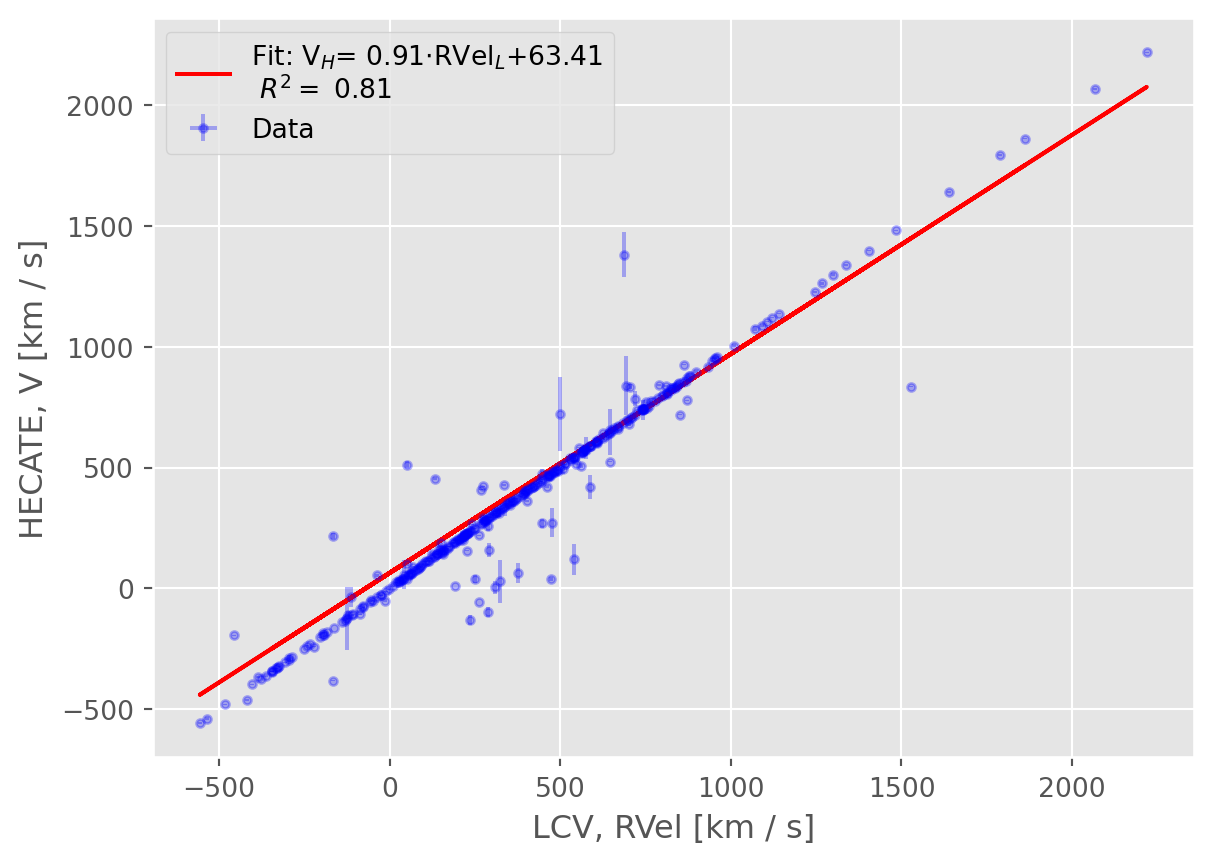
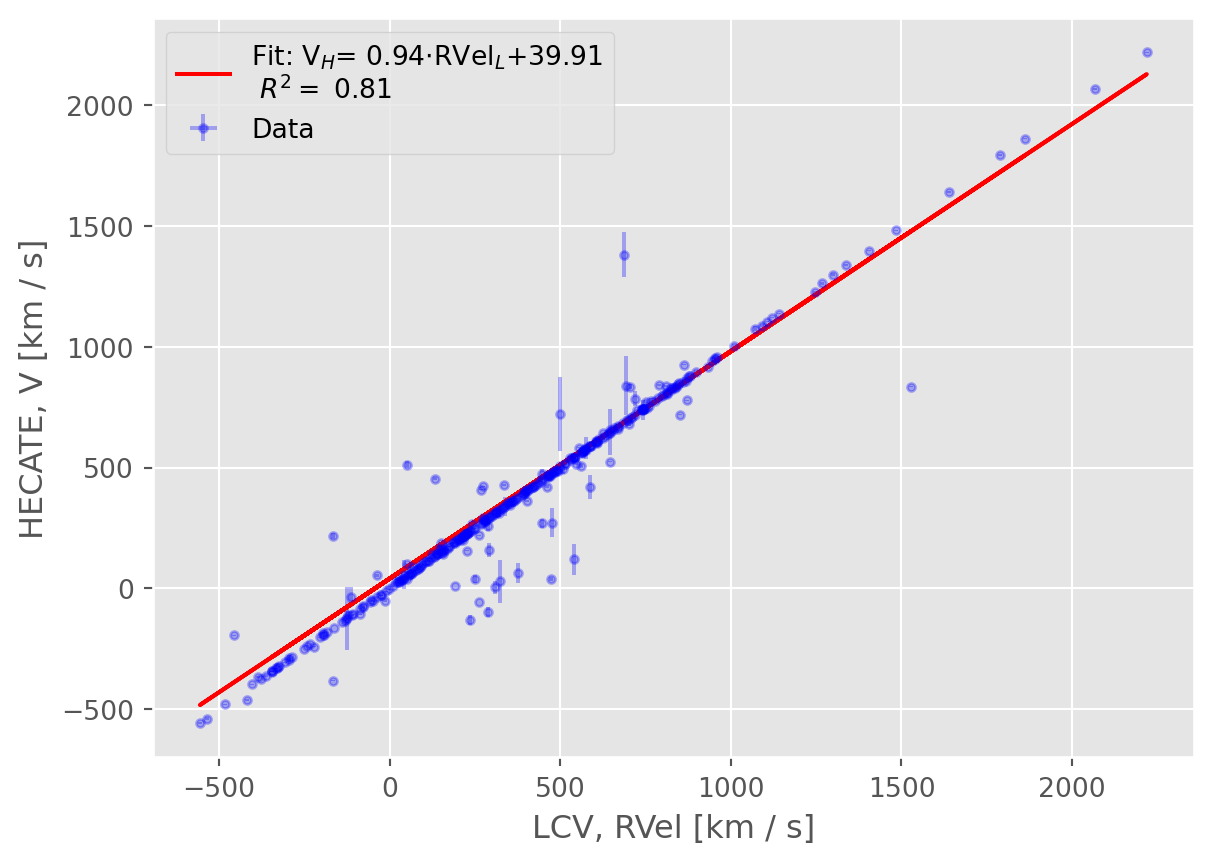
added weights

diff --git a/compare/compare.html b/compare/compare.html
@@ -175,12 +175,11 @@ window.Quarto = {
 <h2 class="anchored" data-anchor-id="scatter-plots-and-r2-calculation">Scatter plots and <span class="math inline">\(R^2\)</span> calculation</h2>
 <ol type="1">
 <li><u><span class="math inline">\(R^2\)</span></u>: Measures the proportion of variance explained by the linear model.</li>
-<li><u>Slope of the Fitted Line</u>: Should be close to 1 for a 1-1 correlation.</li>
-<li><u>Pearson Correlation <span class="math inline">\(\rho\)</span></u>: Measures the strength and direction of the linear relationship between two variables, ranging from -1 to 1.</li>
+<li><u>Slope of the Fitted Line</u>: Should be close to 1 for a 1-1 correlation.<a href="#fn1" class="footnote-ref" id="fnref1" role="doc-noteref"><sup>1</sup></a></li>
+<li><u>Pearson Correlation <span class="math inline">\(\rho\)</span></u>: Measures the strength and direction of the linear relationship between two variables, ranging from -1 to 1. <a href="#fn2" class="footnote-ref" id="fnref2" role="doc-noteref"><sup>2</sup></a></li>
 </ol>
-<p>In simple linear regression, <span class="math inline">\(R^2\)</span> is the square of the Pearson correlation coefficient <span class="math inline">\(r\)</span>.</p>
-<div id="5e415876" class="cell" data-execution_count="2">
-<div class="sourceCode cell-code" id="cb1"><pre class="sourceCode python code-with-copy"><code class="sourceCode python"><span id="cb1-1"><a href="#cb1-1" aria-hidden="true" tabindex="-1"></a><span class="kw">def</span> compare_data(x, y):</span>
+<div id="30e598ba" class="cell" data-execution_count="2">
+<div class="sourceCode cell-code" id="cb1"><pre class="sourceCode python code-with-copy"><code class="sourceCode python"><span id="cb1-1"><a href="#cb1-1" aria-hidden="true" tabindex="-1"></a><span class="kw">def</span> compare_data(x, y, unc <span class="op">=</span> <span class="va">None</span>):</span>
 <span id="cb1-2"><a href="#cb1-2" aria-hidden="true" tabindex="-1"></a>    <span class="co">"""</span></span>
 <span id="cb1-3"><a href="#cb1-3" aria-hidden="true" tabindex="-1"></a><span class="co">    Performs a linear comparison between two datasets.</span></span>
 <span id="cb1-4"><a href="#cb1-4" aria-hidden="true" tabindex="-1"></a><span class="co">    </span></span>
@@ -190,49 +189,55 @@ window.Quarto = {
 <span id="cb1-8"><a href="#cb1-8" aria-hidden="true" tabindex="-1"></a><span class="co">    Parameters:</span></span>
 <span id="cb1-9"><a href="#cb1-9" aria-hidden="true" tabindex="-1"></a><span class="co">    - x (array-like): The independent variable data.</span></span>
 <span id="cb1-10"><a href="#cb1-10" aria-hidden="true" tabindex="-1"></a><span class="co">    - y (array-like): The dependent variable data.</span></span>
-<span id="cb1-11"><a href="#cb1-11" aria-hidden="true" tabindex="-1"></a><span class="co">    </span></span>
-<span id="cb1-12"><a href="#cb1-12" aria-hidden="true" tabindex="-1"></a><span class="co">    Returns:</span></span>
-<span id="cb1-13"><a href="#cb1-13" aria-hidden="true" tabindex="-1"></a><span class="co">    tuple: A tuple containing the following elements:</span></span>
-<span id="cb1-14"><a href="#cb1-14" aria-hidden="true" tabindex="-1"></a><span class="co">        - slope (float): The slope of the fitted linear model.</span></span>
-<span id="cb1-15"><a href="#cb1-15" aria-hidden="true" tabindex="-1"></a><span class="co">        - intercept (float): The intercept of the fitted linear model.</span></span>
-<span id="cb1-16"><a href="#cb1-16" aria-hidden="true" tabindex="-1"></a><span class="co">        - r2 (float): The R-squared value, indicating the proportion of variance explained by the linear model.</span></span>
-<span id="cb1-17"><a href="#cb1-17" aria-hidden="true" tabindex="-1"></a><span class="co">        - corr (float): The Pearson correlation coefficient, measuring the linear correlation between x and y.</span></span>
-<span id="cb1-18"><a href="#cb1-18" aria-hidden="true" tabindex="-1"></a><span class="co">    """</span></span>
-<span id="cb1-19"><a href="#cb1-19" aria-hidden="true" tabindex="-1"></a>    x_data <span class="op">=</span> np.ma.array(x.value, mask<span class="op">=</span>np.isnan(x.value))</span>
-<span id="cb1-20"><a href="#cb1-20" aria-hidden="true" tabindex="-1"></a>    y_data <span class="op">=</span>  np.ma.array(y.value, mask<span class="op">=</span>np.isnan(y.value))</span>
-<span id="cb1-21"><a href="#cb1-21" aria-hidden="true" tabindex="-1"></a>    <span class="co"># initialize a linear fitter</span></span>
-<span id="cb1-22"><a href="#cb1-22" aria-hidden="true" tabindex="-1"></a>    fit <span class="op">=</span> fitting.LinearLSQFitter()</span>
-<span id="cb1-23"><a href="#cb1-23" aria-hidden="true" tabindex="-1"></a></span>
-<span id="cb1-24"><a href="#cb1-24" aria-hidden="true" tabindex="-1"></a>    <span class="co"># initialize a linear model</span></span>
-<span id="cb1-25"><a href="#cb1-25" aria-hidden="true" tabindex="-1"></a>    line_init <span class="op">=</span> models.Linear1D()</span>
-<span id="cb1-26"><a href="#cb1-26" aria-hidden="true" tabindex="-1"></a></span>
-<span id="cb1-27"><a href="#cb1-27" aria-hidden="true" tabindex="-1"></a>    <span class="co"># fit the data with the fitter</span></span>
-<span id="cb1-28"><a href="#cb1-28" aria-hidden="true" tabindex="-1"></a>    fitted_line <span class="op">=</span> fit(line_init, x_data, y_data)</span>
-<span id="cb1-29"><a href="#cb1-29" aria-hidden="true" tabindex="-1"></a>    slope <span class="op">=</span> fitted_line.slope.value</span>
-<span id="cb1-30"><a href="#cb1-30" aria-hidden="true" tabindex="-1"></a>    intercept <span class="op">=</span> fitted_line.intercept.value</span>
-<span id="cb1-31"><a href="#cb1-31" aria-hidden="true" tabindex="-1"></a></span>
-<span id="cb1-32"><a href="#cb1-32" aria-hidden="true" tabindex="-1"></a>    <span class="co"># Predict values using the fitted model</span></span>
-<span id="cb1-33"><a href="#cb1-33" aria-hidden="true" tabindex="-1"></a>    y_pred <span class="op">=</span> fitted_line(x_data)</span>
-<span id="cb1-34"><a href="#cb1-34" aria-hidden="true" tabindex="-1"></a></span>
-<span id="cb1-35"><a href="#cb1-35" aria-hidden="true" tabindex="-1"></a>    <span class="co"># Remove NaN values</span></span>
-<span id="cb1-36"><a href="#cb1-36" aria-hidden="true" tabindex="-1"></a>    mask <span class="op">=</span> <span class="op">~</span>np.isnan(y_data) <span class="op">&amp;</span> <span class="op">~</span>np.isnan(y_pred)</span>
-<span id="cb1-37"><a href="#cb1-37" aria-hidden="true" tabindex="-1"></a>    y_data_clean <span class="op">=</span> y_data[mask]</span>
-<span id="cb1-38"><a href="#cb1-38" aria-hidden="true" tabindex="-1"></a>    y_pred_clean <span class="op">=</span> y_pred[mask]</span>
-<span id="cb1-39"><a href="#cb1-39" aria-hidden="true" tabindex="-1"></a>    mask <span class="op">=</span> <span class="op">~</span>np.isnan(x_data) </span>
-<span id="cb1-40"><a href="#cb1-40" aria-hidden="true" tabindex="-1"></a>    x_data_clean <span class="op">=</span> x_data[mask]</span>
-<span id="cb1-41"><a href="#cb1-41" aria-hidden="true" tabindex="-1"></a></span>
-<span id="cb1-42"><a href="#cb1-42" aria-hidden="true" tabindex="-1"></a>    <span class="co"># Calculate R-squared</span></span>
-<span id="cb1-43"><a href="#cb1-43" aria-hidden="true" tabindex="-1"></a>    r2 <span class="op">=</span> r2_score(y_data_clean, y_pred_clean)</span>
-<span id="cb1-44"><a href="#cb1-44" aria-hidden="true" tabindex="-1"></a></span>
-<span id="cb1-45"><a href="#cb1-45" aria-hidden="true" tabindex="-1"></a>    <span class="co"># Calculate Pearson correlation coefficient</span></span>
-<span id="cb1-46"><a href="#cb1-46" aria-hidden="true" tabindex="-1"></a>    corr <span class="op">=</span> np.sqrt(np.<span class="bu">abs</span>(r2))</span>
+<span id="cb1-11"><a href="#cb1-11" aria-hidden="true" tabindex="-1"></a><span class="co">    - unc (array-like with units, optional): The uncertainties associated with the independent variable data. Default is None.</span></span>
+<span id="cb1-12"><a href="#cb1-12" aria-hidden="true" tabindex="-1"></a></span>
+<span id="cb1-13"><a href="#cb1-13" aria-hidden="true" tabindex="-1"></a><span class="co">    Returns:</span></span>
+<span id="cb1-14"><a href="#cb1-14" aria-hidden="true" tabindex="-1"></a><span class="co">    tuple: A tuple containing the following elements:</span></span>
+<span id="cb1-15"><a href="#cb1-15" aria-hidden="true" tabindex="-1"></a><span class="co">        - slope (float): The slope of the fitted linear model.</span></span>
+<span id="cb1-16"><a href="#cb1-16" aria-hidden="true" tabindex="-1"></a><span class="co">        - intercept (float): The intercept of the fitted linear model.</span></span>
+<span id="cb1-17"><a href="#cb1-17" aria-hidden="true" tabindex="-1"></a><span class="co">        - r2 (float): The R-squared value, indicating the proportion of variance explained by the linear model.</span></span>
+<span id="cb1-18"><a href="#cb1-18" aria-hidden="true" tabindex="-1"></a><span class="co">        - corr (float): The Pearson correlation coefficient, measuring the linear correlation between x and y.</span></span>
+<span id="cb1-19"><a href="#cb1-19" aria-hidden="true" tabindex="-1"></a><span class="co">    """</span></span>
+<span id="cb1-20"><a href="#cb1-20" aria-hidden="true" tabindex="-1"></a>    x_data <span class="op">=</span> np.ma.array(x.value, mask<span class="op">=</span>np.isnan(x.value))</span>
+<span id="cb1-21"><a href="#cb1-21" aria-hidden="true" tabindex="-1"></a>    y_data <span class="op">=</span>  np.ma.array(y.value, mask<span class="op">=</span>np.isnan(y.value))</span>
+<span id="cb1-22"><a href="#cb1-22" aria-hidden="true" tabindex="-1"></a>    <span class="cf">if</span> unc <span class="kw">is</span> <span class="va">None</span>:</span>
+<span id="cb1-23"><a href="#cb1-23" aria-hidden="true" tabindex="-1"></a>        w <span class="op">=</span> <span class="va">None</span></span>
+<span id="cb1-24"><a href="#cb1-24" aria-hidden="true" tabindex="-1"></a>    <span class="cf">else</span>:</span>
+<span id="cb1-25"><a href="#cb1-25" aria-hidden="true" tabindex="-1"></a>        unc <span class="op">=</span> np.ma.array(unc.value, mask<span class="op">=</span>np.isnan(x.value))</span>
+<span id="cb1-26"><a href="#cb1-26" aria-hidden="true" tabindex="-1"></a>        w <span class="op">=</span> <span class="dv">1</span><span class="op">/</span>unc </span>
+<span id="cb1-27"><a href="#cb1-27" aria-hidden="true" tabindex="-1"></a>    <span class="co"># initialize a linear fitter</span></span>
+<span id="cb1-28"><a href="#cb1-28" aria-hidden="true" tabindex="-1"></a>    fit <span class="op">=</span> fitting.LinearLSQFitter()</span>
+<span id="cb1-29"><a href="#cb1-29" aria-hidden="true" tabindex="-1"></a></span>
+<span id="cb1-30"><a href="#cb1-30" aria-hidden="true" tabindex="-1"></a>    <span class="co"># initialize a linear model</span></span>
+<span id="cb1-31"><a href="#cb1-31" aria-hidden="true" tabindex="-1"></a>    line_init <span class="op">=</span> models.Linear1D()</span>
+<span id="cb1-32"><a href="#cb1-32" aria-hidden="true" tabindex="-1"></a></span>
+<span id="cb1-33"><a href="#cb1-33" aria-hidden="true" tabindex="-1"></a>    <span class="co"># fit the data with the fitter</span></span>
+<span id="cb1-34"><a href="#cb1-34" aria-hidden="true" tabindex="-1"></a>    fitted_line <span class="op">=</span> fit(line_init, x_data, y_data, weights <span class="op">=</span> w)</span>
+<span id="cb1-35"><a href="#cb1-35" aria-hidden="true" tabindex="-1"></a>    slope <span class="op">=</span> fitted_line.slope.value</span>
+<span id="cb1-36"><a href="#cb1-36" aria-hidden="true" tabindex="-1"></a>    intercept <span class="op">=</span> fitted_line.intercept.value</span>
+<span id="cb1-37"><a href="#cb1-37" aria-hidden="true" tabindex="-1"></a></span>
+<span id="cb1-38"><a href="#cb1-38" aria-hidden="true" tabindex="-1"></a>    <span class="co"># Predict values using the fitted model</span></span>
+<span id="cb1-39"><a href="#cb1-39" aria-hidden="true" tabindex="-1"></a>    y_pred <span class="op">=</span> fitted_line(x_data)</span>
+<span id="cb1-40"><a href="#cb1-40" aria-hidden="true" tabindex="-1"></a></span>
+<span id="cb1-41"><a href="#cb1-41" aria-hidden="true" tabindex="-1"></a>    <span class="co"># Remove NaN values</span></span>
+<span id="cb1-42"><a href="#cb1-42" aria-hidden="true" tabindex="-1"></a>    mask <span class="op">=</span> <span class="op">~</span>np.isnan(y_data) <span class="op">&amp;</span> <span class="op">~</span>np.isnan(y_pred)</span>
+<span id="cb1-43"><a href="#cb1-43" aria-hidden="true" tabindex="-1"></a>    y_data_clean <span class="op">=</span> y_data[mask]</span>
+<span id="cb1-44"><a href="#cb1-44" aria-hidden="true" tabindex="-1"></a>    y_pred_clean <span class="op">=</span> y_pred[mask]</span>
+<span id="cb1-45"><a href="#cb1-45" aria-hidden="true" tabindex="-1"></a>    mask <span class="op">=</span> <span class="op">~</span>np.isnan(x_data) </span>
+<span id="cb1-46"><a href="#cb1-46" aria-hidden="true" tabindex="-1"></a>    x_data_clean <span class="op">=</span> x_data[mask]</span>
 <span id="cb1-47"><a href="#cb1-47" aria-hidden="true" tabindex="-1"></a></span>
-<span id="cb1-48"><a href="#cb1-48" aria-hidden="true" tabindex="-1"></a>    <span class="cf">return</span> slope, intercept, r2, corr</span></code><button title="Copy to Clipboard" class="code-copy-button"><i class="bi"></i></button></pre></div>
+<span id="cb1-48"><a href="#cb1-48" aria-hidden="true" tabindex="-1"></a>    <span class="co"># Calculate R-squared</span></span>
+<span id="cb1-49"><a href="#cb1-49" aria-hidden="true" tabindex="-1"></a>    r2 <span class="op">=</span> r2_score(y_data_clean, y_pred_clean)</span>
+<span id="cb1-50"><a href="#cb1-50" aria-hidden="true" tabindex="-1"></a></span>
+<span id="cb1-51"><a href="#cb1-51" aria-hidden="true" tabindex="-1"></a>    <span class="co"># Calculate Pearson correlation coefficient</span></span>
+<span id="cb1-52"><a href="#cb1-52" aria-hidden="true" tabindex="-1"></a>    corr <span class="op">=</span> np.sqrt(np.<span class="bu">abs</span>(r2))</span>
+<span id="cb1-53"><a href="#cb1-53" aria-hidden="true" tabindex="-1"></a></span>
+<span id="cb1-54"><a href="#cb1-54" aria-hidden="true" tabindex="-1"></a>    <span class="cf">return</span> slope, intercept, r2, corr</span></code><button title="Copy to Clipboard" class="code-copy-button"><i class="bi"></i></button></pre></div>
 </div>
 <ol start="4" type="1">
 <li><u>Scatter plots</u>: Scatter plots are essential for visually assessing the relationship between two datasets, identifying correlations, trends, and outliers, and evaluating the fit of linear models.</li>
 </ol>
-<div id="c62cb0f5" class="cell" data-execution_count="3">
+<div id="c8e12003" class="cell" data-execution_count="3">
 <div class="sourceCode cell-code" id="cb2"><pre class="sourceCode python code-with-copy"><code class="sourceCode python"><span id="cb2-1"><a href="#cb2-1" aria-hidden="true" tabindex="-1"></a><span class="kw">def</span> scatter_plot(x, y, xerr <span class="op">=</span> <span class="va">None</span>, yerr <span class="op">=</span> <span class="va">None</span>):</span>
 <span id="cb2-2"><a href="#cb2-2" aria-hidden="true" tabindex="-1"></a>    <span class="co">"""</span></span>
 <span id="cb2-3"><a href="#cb2-3" aria-hidden="true" tabindex="-1"></a><span class="co">    Generates a scatter plot of two datasets with optional error bars, fits a linear model to the data, </span></span>
@@ -241,8 +246,8 @@ window.Quarto = {
 <span id="cb2-6"><a href="#cb2-6" aria-hidden="true" tabindex="-1"></a><span class="co">    Parameters:</span></span>
 <span id="cb2-7"><a href="#cb2-7" aria-hidden="true" tabindex="-1"></a><span class="co">    - x (array-like with units): Independent variable data.</span></span>
 <span id="cb2-8"><a href="#cb2-8" aria-hidden="true" tabindex="-1"></a><span class="co">    - y (array-like with units): Dependent variable data.</span></span>
-<span id="cb2-9"><a href="#cb2-9" aria-hidden="true" tabindex="-1"></a><span class="co">    xerr (array-like, optional): Error in the independent variable data. Default is 0.</span></span>
-<span id="cb2-10"><a href="#cb2-10" aria-hidden="true" tabindex="-1"></a><span class="co">    yerr (array-like, optional): Error in the dependent variable data. Default is 0.</span></span>
+<span id="cb2-9"><a href="#cb2-9" aria-hidden="true" tabindex="-1"></a><span class="co">    - xerr (array-like, optional): Error in the independent variable data. Default is 0.</span></span>
+<span id="cb2-10"><a href="#cb2-10" aria-hidden="true" tabindex="-1"></a><span class="co">    - yerr (array-like, optional): Error in the dependent variable data. Default is 0.</span></span>
 <span id="cb2-11"><a href="#cb2-11" aria-hidden="true" tabindex="-1"></a></span>
 <span id="cb2-12"><a href="#cb2-12" aria-hidden="true" tabindex="-1"></a><span class="co">    Returns:</span></span>
 <span id="cb2-13"><a href="#cb2-13" aria-hidden="true" tabindex="-1"></a><span class="co">    None. The function displays a scatter plot with a fitted linear model.</span></span>
@@ -253,34 +258,40 @@ window.Quarto = {
 <span id="cb2-18"><a href="#cb2-18" aria-hidden="true" tabindex="-1"></a></span>
 <span id="cb2-19"><a href="#cb2-19" aria-hidden="true" tabindex="-1"></a>    <span class="co"># Handle default values for xerr and yerr</span></span>
 <span id="cb2-20"><a href="#cb2-20" aria-hidden="true" tabindex="-1"></a>    <span class="cf">if</span> xerr <span class="kw">is</span> <span class="va">None</span>:</span>
-<span id="cb2-21"><a href="#cb2-21" aria-hidden="true" tabindex="-1"></a>        xerr_d <span class="op">=</span> np.ma.zeros(<span class="bu">len</span>(x_data))</span>
+<span id="cb2-21"><a href="#cb2-21" aria-hidden="true" tabindex="-1"></a>        xerr_d <span class="op">=</span> <span class="dv">0</span></span>
 <span id="cb2-22"><a href="#cb2-22" aria-hidden="true" tabindex="-1"></a>    <span class="cf">else</span>:</span>
 <span id="cb2-23"><a href="#cb2-23" aria-hidden="true" tabindex="-1"></a>        xerr_d <span class="op">=</span> np.ma.array(xerr.value, mask<span class="op">=</span>np.isnan(xerr))</span>
 <span id="cb2-24"><a href="#cb2-24" aria-hidden="true" tabindex="-1"></a>    <span class="cf">if</span> yerr <span class="kw">is</span> <span class="va">None</span>:</span>
-<span id="cb2-25"><a href="#cb2-25" aria-hidden="true" tabindex="-1"></a>        yerr_d <span class="op">=</span> np.ma.zeros(<span class="bu">len</span>(y_data))</span>
+<span id="cb2-25"><a href="#cb2-25" aria-hidden="true" tabindex="-1"></a>        yerr_d <span class="op">=</span> <span class="dv">0</span></span>
 <span id="cb2-26"><a href="#cb2-26" aria-hidden="true" tabindex="-1"></a>    <span class="cf">else</span>:</span>
 <span id="cb2-27"><a href="#cb2-27" aria-hidden="true" tabindex="-1"></a>        yerr_d <span class="op">=</span> np.ma.array(yerr.value, mask<span class="op">=</span>np.isnan(yerr))</span>
 <span id="cb2-28"><a href="#cb2-28" aria-hidden="true" tabindex="-1"></a></span>
 <span id="cb2-29"><a href="#cb2-29" aria-hidden="true" tabindex="-1"></a>    </span>
 <span id="cb2-30"><a href="#cb2-30" aria-hidden="true" tabindex="-1"></a>    <span class="co"># Perform linear comparison between the datasets</span></span>
-<span id="cb2-31"><a href="#cb2-31" aria-hidden="true" tabindex="-1"></a>    c, m, r2, corr <span class="op">=</span> compare_data(x, y)</span>
-<span id="cb2-32"><a href="#cb2-32" aria-hidden="true" tabindex="-1"></a></span>
-<span id="cb2-33"><a href="#cb2-33" aria-hidden="true" tabindex="-1"></a>    <span class="co"># Plot the data with error bars</span></span>
-<span id="cb2-34"><a href="#cb2-34" aria-hidden="true" tabindex="-1"></a>    <span class="co"># errorbar -&gt; needs np.ma -&gt; no units</span></span>
-<span id="cb2-35"><a href="#cb2-35" aria-hidden="true" tabindex="-1"></a>    plt.errorbar(x_data, y_data, xerr <span class="op">=</span> xerr_d, yerr <span class="op">=</span> yerr_d, alpha <span class="op">=</span> <span class="fl">0.3</span>, c <span class="op">=</span> <span class="st">"blue"</span>, label <span class="op">=</span> <span class="st">"Data"</span>, fmt<span class="op">=</span><span class="st">"."</span>)</span>
-<span id="cb2-36"><a href="#cb2-36" aria-hidden="true" tabindex="-1"></a>    </span>
-<span id="cb2-37"><a href="#cb2-37" aria-hidden="true" tabindex="-1"></a>    <span class="co"># Plot the fitted line with unit support</span></span>
-<span id="cb2-38"><a href="#cb2-38" aria-hidden="true" tabindex="-1"></a>    plt.plot(x, c<span class="op">*</span>x <span class="op">+</span> m<span class="op">*</span>x.unit, c <span class="op">=</span> <span class="st">"red"</span>, label <span class="op">=</span> <span class="ss">f"Fit: </span><span class="sc">{</span>y<span class="sc">.</span>info<span class="sc">.</span>name<span class="sc">}</span><span class="ss">$_H $= </span><span class="sc">{</span>c<span class="sc">:.2f}</span><span class="ss">$\cdot$</span><span class="sc">{</span>x<span class="sc">.</span>info<span class="sc">.</span>name<span class="sc">}</span><span class="ss">$_L$</span><span class="sc">{</span>m<span class="sc">:+.2f}</span><span class="ch">\n</span><span class="ss"> $R^2=$ </span><span class="sc">{</span>r2<span class="sc">:.2f}</span><span class="ss">"</span>)</span>
-<span id="cb2-39"><a href="#cb2-39" aria-hidden="true" tabindex="-1"></a></span>
-<span id="cb2-40"><a href="#cb2-40" aria-hidden="true" tabindex="-1"></a>    <span class="co"># Set plot labels</span></span>
-<span id="cb2-41"><a href="#cb2-41" aria-hidden="true" tabindex="-1"></a>    plt.xlabel(<span class="ss">f"LCV, </span><span class="sc">{</span>x<span class="sc">.</span>info<span class="sc">.</span>name<span class="sc">}</span><span class="ss"> [</span><span class="sc">{</span>x<span class="sc">.</span>unit<span class="sc">}</span><span class="ss">]"</span>)</span>
-<span id="cb2-42"><a href="#cb2-42" aria-hidden="true" tabindex="-1"></a>    plt.ylabel(<span class="ss">f"HECATE, </span><span class="sc">{</span>y<span class="sc">.</span>info<span class="sc">.</span>name<span class="sc">}</span><span class="ss"> [</span><span class="sc">{</span>y<span class="sc">.</span>unit<span class="sc">}</span><span class="ss">]"</span>)</span>
-<span id="cb2-43"><a href="#cb2-43" aria-hidden="true" tabindex="-1"></a></span>
-<span id="cb2-44"><a href="#cb2-44" aria-hidden="true" tabindex="-1"></a>    <span class="co"># Display legend</span></span>
-<span id="cb2-45"><a href="#cb2-45" aria-hidden="true" tabindex="-1"></a>    plt.legend()</span>
-<span id="cb2-46"><a href="#cb2-46" aria-hidden="true" tabindex="-1"></a>    </span>
-<span id="cb2-47"><a href="#cb2-47" aria-hidden="true" tabindex="-1"></a>    <span class="co"># Show the plot</span></span>
-<span id="cb2-48"><a href="#cb2-48" aria-hidden="true" tabindex="-1"></a>    plt.show()</span></code><button title="Copy to Clipboard" class="code-copy-button"><i class="bi"></i></button></pre></div>
+<span id="cb2-31"><a href="#cb2-31" aria-hidden="true" tabindex="-1"></a>    <span class="cf">if</span> yerr <span class="kw">is</span> <span class="kw">not</span> <span class="va">None</span>:</span>
+<span id="cb2-32"><a href="#cb2-32" aria-hidden="true" tabindex="-1"></a>        unc <span class="op">=</span> yerr</span>
+<span id="cb2-33"><a href="#cb2-33" aria-hidden="true" tabindex="-1"></a>    <span class="cf">elif</span> yerr <span class="kw">is</span> <span class="va">None</span> <span class="kw">and</span> xerr <span class="kw">is</span> <span class="kw">not</span> <span class="va">None</span>:</span>
+<span id="cb2-34"><a href="#cb2-34" aria-hidden="true" tabindex="-1"></a>        unc <span class="op">=</span> xerr</span>
+<span id="cb2-35"><a href="#cb2-35" aria-hidden="true" tabindex="-1"></a>    <span class="cf">else</span>:</span>
+<span id="cb2-36"><a href="#cb2-36" aria-hidden="true" tabindex="-1"></a>        unc <span class="op">=</span> <span class="va">None</span></span>
+<span id="cb2-37"><a href="#cb2-37" aria-hidden="true" tabindex="-1"></a>    c, m, r2, corr <span class="op">=</span> compare_data(x, y, unc)</span>
+<span id="cb2-38"><a href="#cb2-38" aria-hidden="true" tabindex="-1"></a></span>
+<span id="cb2-39"><a href="#cb2-39" aria-hidden="true" tabindex="-1"></a>    <span class="co"># Plot the data with error bars</span></span>
+<span id="cb2-40"><a href="#cb2-40" aria-hidden="true" tabindex="-1"></a>    <span class="co"># errorbar -&gt; needs np.ma -&gt; no units</span></span>
+<span id="cb2-41"><a href="#cb2-41" aria-hidden="true" tabindex="-1"></a>    plt.errorbar(x_data, y_data, xerr <span class="op">=</span> xerr_d, yerr <span class="op">=</span> yerr_d, alpha <span class="op">=</span> <span class="fl">0.3</span>, c <span class="op">=</span> <span class="st">"blue"</span>, label <span class="op">=</span> <span class="st">"Data"</span>, fmt<span class="op">=</span><span class="st">"."</span>)</span>
+<span id="cb2-42"><a href="#cb2-42" aria-hidden="true" tabindex="-1"></a>    </span>
+<span id="cb2-43"><a href="#cb2-43" aria-hidden="true" tabindex="-1"></a>    <span class="co"># Plot the fitted line with unit support</span></span>
+<span id="cb2-44"><a href="#cb2-44" aria-hidden="true" tabindex="-1"></a>    plt.plot(x, c<span class="op">*</span>x <span class="op">+</span> m<span class="op">*</span>x.unit, c <span class="op">=</span> <span class="st">"red"</span>, label <span class="op">=</span> <span class="ss">f"Fit: </span><span class="sc">{</span>y<span class="sc">.</span>info<span class="sc">.</span>name<span class="sc">}</span><span class="ss">$_H $= </span><span class="sc">{</span>c<span class="sc">:.2f}</span><span class="ss">$\cdot$</span><span class="sc">{</span>x<span class="sc">.</span>info<span class="sc">.</span>name<span class="sc">}</span><span class="ss">$_L$</span><span class="sc">{</span>m<span class="sc">:+.2f}</span><span class="ch">\n</span><span class="ss"> $R^2=$ </span><span class="sc">{</span>r2<span class="sc">:.2f}</span><span class="ss">"</span>)</span>
+<span id="cb2-45"><a href="#cb2-45" aria-hidden="true" tabindex="-1"></a></span>
+<span id="cb2-46"><a href="#cb2-46" aria-hidden="true" tabindex="-1"></a>    <span class="co"># Set plot labels</span></span>
+<span id="cb2-47"><a href="#cb2-47" aria-hidden="true" tabindex="-1"></a>    plt.xlabel(<span class="ss">f"LCV, </span><span class="sc">{</span>x<span class="sc">.</span>info<span class="sc">.</span>name<span class="sc">}</span><span class="ss"> [</span><span class="sc">{</span>x<span class="sc">.</span>unit<span class="sc">}</span><span class="ss">]"</span>)</span>
+<span id="cb2-48"><a href="#cb2-48" aria-hidden="true" tabindex="-1"></a>    plt.ylabel(<span class="ss">f"HECATE, </span><span class="sc">{</span>y<span class="sc">.</span>info<span class="sc">.</span>name<span class="sc">}</span><span class="ss"> [</span><span class="sc">{</span>y<span class="sc">.</span>unit<span class="sc">}</span><span class="ss">]"</span>)</span>
+<span id="cb2-49"><a href="#cb2-49" aria-hidden="true" tabindex="-1"></a></span>
+<span id="cb2-50"><a href="#cb2-50" aria-hidden="true" tabindex="-1"></a>    <span class="co"># Display legend</span></span>
+<span id="cb2-51"><a href="#cb2-51" aria-hidden="true" tabindex="-1"></a>    plt.legend()</span>
+<span id="cb2-52"><a href="#cb2-52" aria-hidden="true" tabindex="-1"></a>    </span>
+<span id="cb2-53"><a href="#cb2-53" aria-hidden="true" tabindex="-1"></a>    <span class="co"># Show the plot</span></span>
+<span id="cb2-54"><a href="#cb2-54" aria-hidden="true" tabindex="-1"></a>    plt.show()</span></code><button title="Copy to Clipboard" class="code-copy-button"><i class="bi"></i></button></pre></div>
 </div>
 <ul>
 <li><p>Histograms</p></li>
@@ -324,7 +335,7 @@ window.Quarto = {
 </tr>
 </tbody>
 </table>
-<div id="ef158164" class="cell" data-execution_count="5">
+<div id="81caf65f" class="cell" data-execution_count="5">
 <div class="sourceCode cell-code" id="cb3"><pre class="sourceCode python code-with-copy"><code class="sourceCode python"><span id="cb3-1"><a href="#cb3-1" aria-hidden="true" tabindex="-1"></a>scatter_plot(dt[<span class="st">"Ra_1"</span>], dt[<span class="st">"RA_2"</span>]), scatter_plot(dt[<span class="st">"Dec_1"</span>], dt[<span class="st">"DEC_2"</span>]), scatter_plot(dt[<span class="st">"Dis"</span>], dt[<span class="st">"D"</span>])</span></code><button title="Copy to Clipboard" class="code-copy-button"><i class="bi"></i></button></pre></div>
 <div class="cell-output cell-output-display">
 <div>
@@ -350,7 +361,7 @@ window.Quarto = {
 </div>
 </div>
 <div id="tabset-1-2" class="tab-pane" role="tabpanel" aria-labelledby="tabset-1-2-tab">
-<div id="283124b5" class="cell" data-execution_count="6">
+<div id="d5031d41" class="cell" data-execution_count="6">
 <div class="sourceCode cell-code" id="cb4"><pre class="sourceCode python code-with-copy"><code class="sourceCode python"><span id="cb4-1"><a href="#cb4-1" aria-hidden="true" tabindex="-1"></a>rvel_corr <span class="op">=</span> <span class="bu">round</span>(compare_data(dt[<span class="st">"RVel"</span>],dt[<span class="st">"V"</span>])[<span class="dv">3</span>],<span class="dv">3</span>)</span>
 <span id="cb4-2"><a href="#cb4-2" aria-hidden="true" tabindex="-1"></a>rvel_corr_v <span class="op">=</span> <span class="bu">round</span>(compare_data(dt[<span class="st">"RVel"</span>],dt[<span class="st">"V_VIR"</span>])[<span class="dv">3</span>],<span class="dv">3</span>)</span>
 <span id="cb4-3"><a href="#cb4-3" aria-hidden="true" tabindex="-1"></a>vlg_corr <span class="op">=</span> <span class="bu">round</span>(compare_data(dt[<span class="st">"VLG"</span>],dt[<span class="st">"V"</span>])[<span class="dv">3</span>],<span class="dv">3</span>)</span>
@@ -361,7 +372,7 @@ window.Quarto = {
 <table class="table">
 <colgroup>
 <col style="width: 24%">
-<col style="width: 27%">
+<col style="width: 26%">
 <col style="width: 24%">
 <col style="width: 24%">
 </colgroup>
@@ -394,7 +405,7 @@ window.Quarto = {
 </tr>
 </tbody>
 </table>
-<div id="54afdce6" class="cell" data-execution_count="7">
+<div id="6e42af50" class="cell" data-execution_count="7">
 <div class="sourceCode cell-code" id="cb5"><pre class="sourceCode python code-with-copy"><code class="sourceCode python"><span id="cb5-1"><a href="#cb5-1" aria-hidden="true" tabindex="-1"></a>scatter_plot(dt[<span class="st">"RVel"</span>], dt[<span class="st">"V"</span>], yerr <span class="op">=</span> dt[<span class="st">"E_V"</span>])</span></code><button title="Copy to Clipboard" class="code-copy-button"><i class="bi"></i></button></pre></div>
 <div class="cell-output cell-output-display">
 <div>
@@ -408,10 +419,10 @@ window.Quarto = {
 <div id="tabset-1-3" class="tab-pane" role="tabpanel" aria-labelledby="tabset-1-3-tab">
 <table class="table">
 <colgroup>
-<col style="width: 22%">
-<col style="width: 22%">
-<col style="width: 31%">
-<col style="width: 22%">
+<col style="width: 23%">
+<col style="width: 23%">
+<col style="width: 29%">
+<col style="width: 23%">
 </colgroup>
 <thead>
 <tr class="header">
@@ -443,9 +454,9 @@ window.Quarto = {
 </tbody>
 </table>
 <p>As we can see we don’t have any significant correlation between the data</p>
-<div id="686a6476" class="cell" data-execution_count="9">
+<div id="2198cf36" class="cell" data-execution_count="9">
 <div class="sourceCode cell-code" id="cb6"><pre class="sourceCode python code-with-copy"><code class="sourceCode python"><span id="cb6-1"><a href="#cb6-1" aria-hidden="true" tabindex="-1"></a>dt[<span class="st">"TType"</span>].info, dt[<span class="st">"T"</span>].info</span></code><button title="Copy to Clipboard" class="code-copy-button"><i class="bi"></i></button></pre></div>
-<div class="cell-output cell-output-display" data-execution_count="9">
+<div class="cell-output cell-output-display" data-execution_count="76">
 <pre><code>(name = TType
  dtype = int64
  description = Morphology type code (10)
@@ -651,6 +662,7 @@ window.Quarto = {
 
 </section>
 
+
 <div id="quarto-appendix" class="default"><section class="quarto-appendix-contents" role="doc-bibliography" id="quarto-bibliography"><h2 class="anchored quarto-appendix-heading">References</h2><div id="refs" class="references csl-bib-body hanging-indent" data-entry-spacing="0" role="list">
 <div id="ref-karachentsevSTARFORMATIONPROPERTIES2013a" class="csl-entry" role="listitem">
 Karachentsev, Igor D., and Elena I. Kaisina. 2013. <span>“<span>STAR FORMATION PROPERTIES IN THE LOCAL VOLUME GALAXIES VIA Hα AND FAR-ULTRAVIOLET FLUXES</span>.”</span> <em>AJ</em> 146 (3): 46. <a href="https://doi.org/10.1088/0004-6256/146/3/46">https://doi.org/10.1088/0004-6256/146/3/46</a>.
@@ -661,7 +673,13 @@ Karachentsev, Igor D., Dmitry I. Makarov, and Elena I. Kaisina. 2013. <span>“<
 <div id="ref-kovlakasHeraklionExtragalacticCatalogue2021" class="csl-entry" role="listitem">
 Kovlakas, K., A. Zezas, J. J. Andrews, A. Basu-Zych, T. Fragos, A. Hornschemeier, K. Kouroumpatzakis, B. Lehmer, and A. Ptak. 2021. <span>“The <span>Heraklion Extragalactic Catalogue</span> (<span>HECATE</span>): A Value-Added Galaxy Catalogue for Multimessenger Astrophysics.”</span> <em>Monthly Notices of the Royal Astronomical Society</em> 506 (September): 1896–1915. <a href="https://doi.org/10.1093/mnras/stab1799">https://doi.org/10.1093/mnras/stab1799</a>.
 </div>
-</div></section></div></main>
+</div></section><section id="footnotes" class="footnotes footnotes-end-of-document" role="doc-endnotes"><h2 class="anchored quarto-appendix-heading">Footnotes</h2>
+
+<ol>
+<li id="fn1"><p>Fitting can be done using the uncertainties as weights. To get the standard weighting of 1/unc^2, assuming Gaussian errors, the weights to pass to the fitting are 1/unc.<a href="#fnref1" class="footnote-back" role="doc-backlink">↩</a></p></li>
+<li id="fn2"><p>In simple linear regression, <span class="math inline">\(R^2\)</span> is the square of the Pearson correlation coefficient <span class="math inline">\(\rho\)</span>.<a href="#fnref2" class="footnote-back" role="doc-backlink">↩</a></p></li>
+</ol>
+</section></div></main>
 <!-- /main column -->
 <script id="quarto-html-after-body" type="application/javascript">
 window.document.addEventListener("DOMContentLoaded", function (event) {
